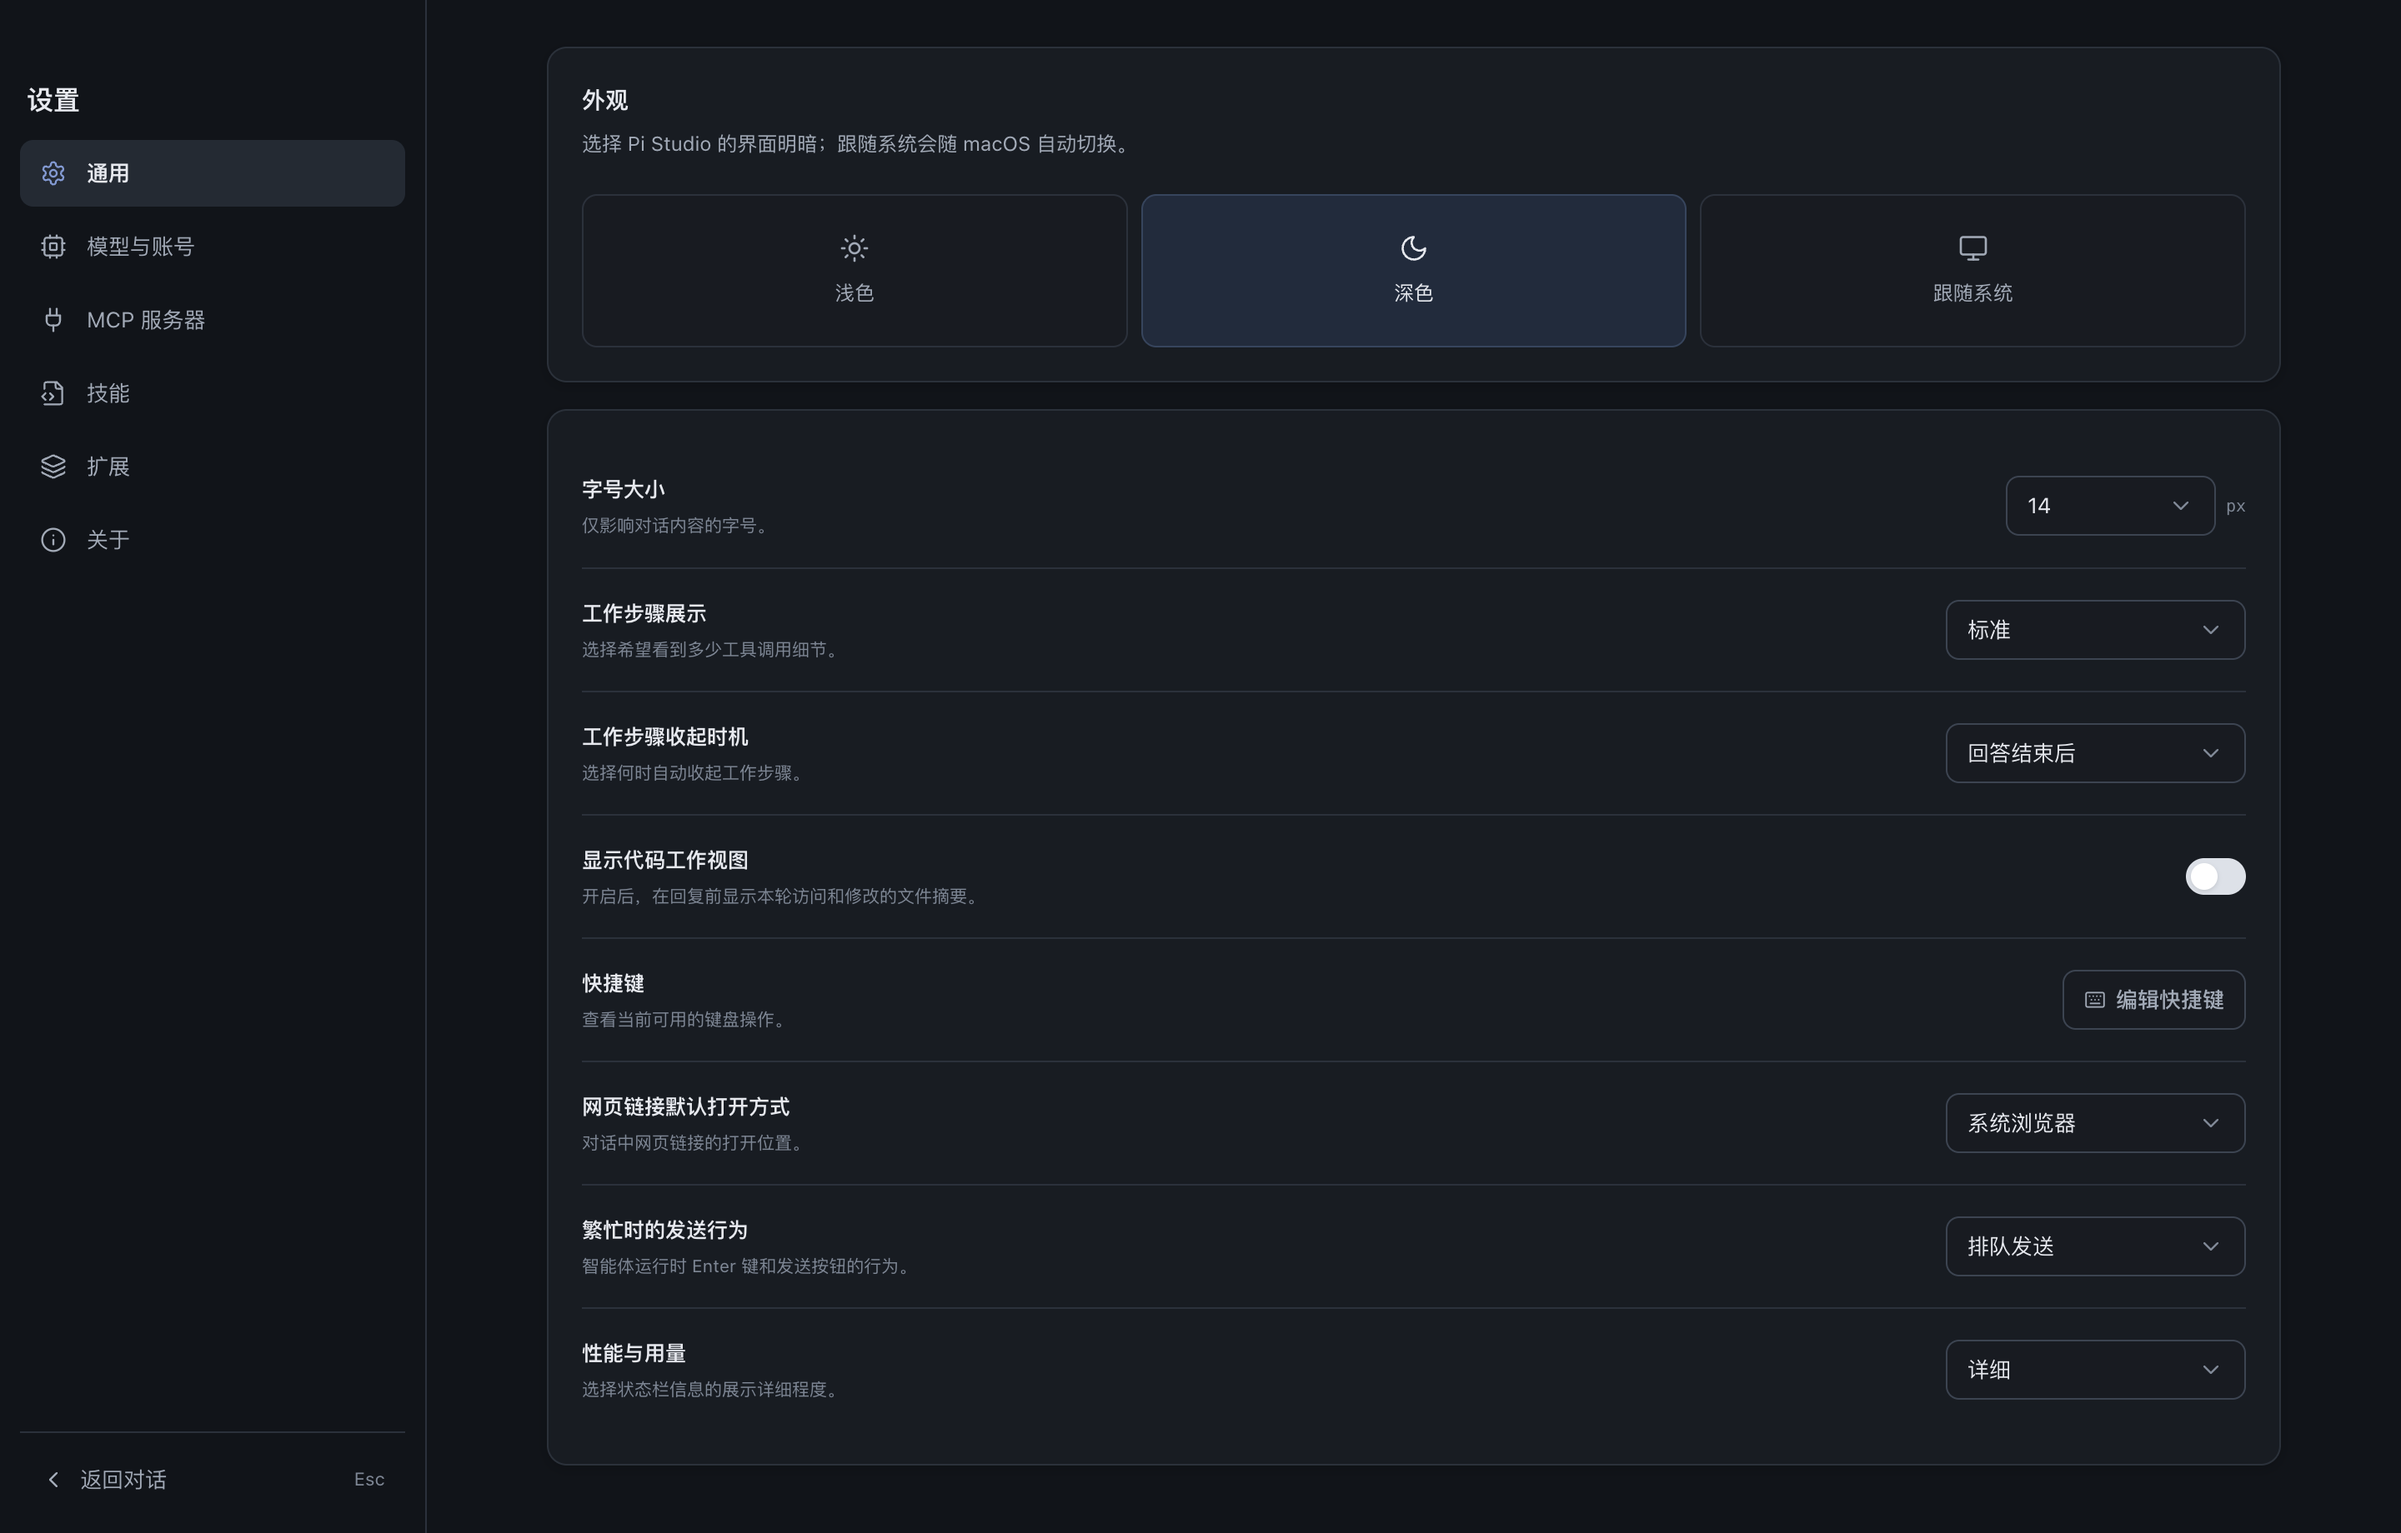
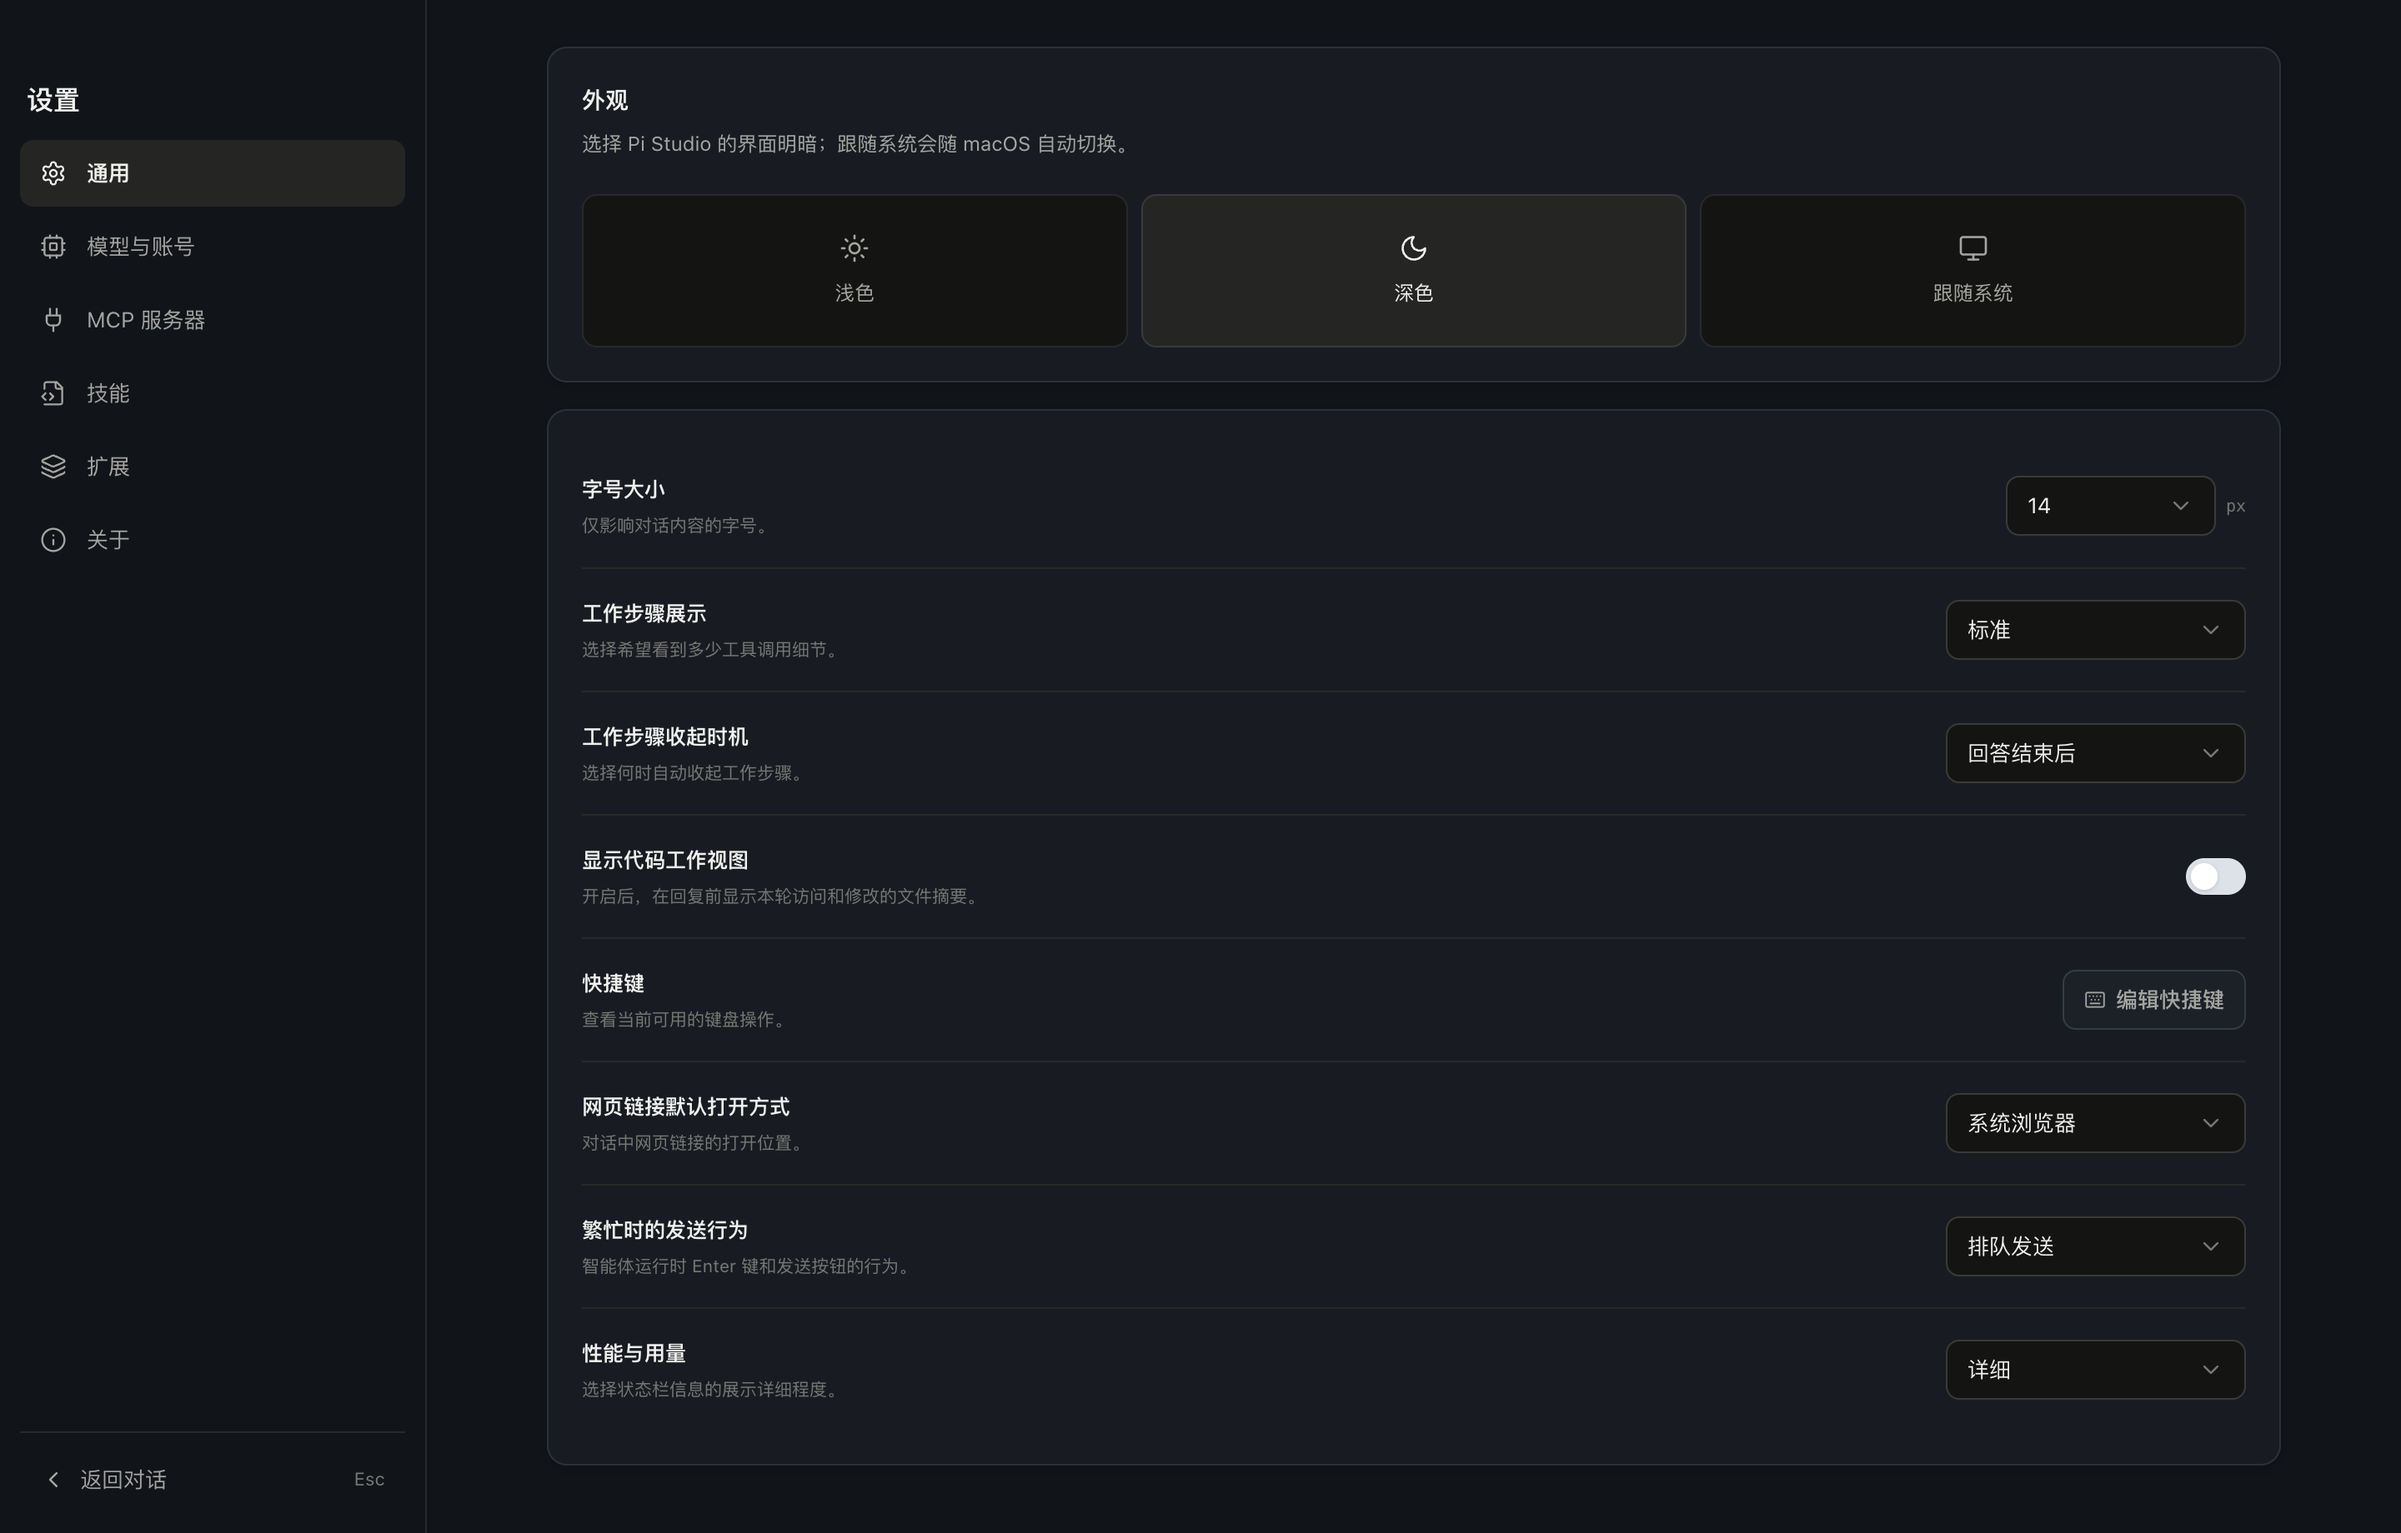
style(theme): 将应用配色切换为经典单色

Changed region(s): [[0.4688, 0.1239, 0.7188, 0.2478]]

diff --git a/web/src/app.css b/web/src/app.css
@@ -1408,3 +1408,116 @@ body *::-webkit-scrollbar-corner { background: transparent; }
 .status-panel-list dt { color: var(--faint); }
 .status-panel-list dd { margin: 0; color: var(--muted); white-space: pre-wrap; overflow-wrap: anywhere; }
 .status-panel-empty { margin: 0; color: var(--faint); font-size: 11px; }
+
+/* Classic monochrome system: ink, paper, and quiet gray only. */
+:root[data-theme="dark"] {
+  --bg: #0c0c0b;
+  --surface: #141413;
+  --surface-soft: #1b1b19;
+  --surface-hover: #242422;
+  --surface-active: #2c2c29;
+  --sidebar-bg: #10100f;
+  --text: #f0f0ed;
+  --muted: #a5a5a0;
+  --faint: #777772;
+  --border: #292927;
+  --border-strong: #3a3a36;
+  --accent: #f0f0ed;
+  --accent-hover: #ffffff;
+  --accent-soft: #252523;
+  --accent-border: #3d3d39;
+  --on-accent: #111110;
+  --success: #a8b3aa;
+  --success-soft: #1b241e;
+  --error: #c99189;
+  --error-soft: #2a1c1a;
+  --shadow-card: 0 2px 8px rgb(0 0 0 / 20%);
+  --shadow-popover: 0 14px 44px rgb(0 0 0 / 40%), 0 2px 8px rgb(0 0 0 / 25%);
+  --focus-ring: 0 0 0 3px rgb(255 255 255 / 10%);
+}
+.send-button, .settings-save { color: var(--on-accent); }
+.dialog-footer .settings-save { background: var(--text); color: var(--bg); border-color: var(--text); }
+.dialog-footer .settings-save:hover:not(:disabled) { background: var(--text); color: var(--bg); }
+.user-bubble { border-color: var(--border); background: linear-gradient(135deg, #f2f2ef, #ecece9); box-shadow: none; }
+.nav-row.is-active, .settings-nav-row.is-active { background: var(--accent-soft); color: var(--text); }
+.new-chat:hover { border-color: var(--border-strong); background: var(--surface-soft); color: var(--text); }
+.model-card, .model-card:hover, .model-card.is-active { background: var(--surface); }
+.model-card.is-active { border-color: var(--border-strong); box-shadow: inset 3px 0 0 var(--text), 0 4px 16px rgb(20 20 18 / 5%); }
+.theme-choice.is-active { border-color: var(--border-strong); background: var(--accent-soft); color: var(--text); }
+.composer:focus-within { border-color: var(--border-strong); box-shadow: var(--focus-ring), 0 4px 20px rgb(20 20 18 / 4%); }
+.chat-loading-line { background: linear-gradient(90deg, transparent, var(--text), transparent); }
+.panel-tab.is-active { background: var(--accent-soft); }
+.panel-tab-icon.is-file, .panel-tab-icon.is-files, .panel-tab-icon.is-start { color: var(--muted); }
+.panel-tab-icon.is-file, .panel-tab-icon.is-files { background: transparent; }
+.assistant-orb { background: linear-gradient(145deg, #2a2a27, #111110); color: #f6f6f3; box-shadow: 0 3px 10px rgb(0 0 0 / 16%), 0 0 0 1px rgb(255 255 255 / 6%) inset; }
+.assistant-turn.is-live .assistant-orb { background: linear-gradient(145deg, #1b1b19, #060606); box-shadow: 0 0 0 5px rgb(0 0 0 / 5%), 0 3px 12px rgb(0 0 0 / 20%); }
+.assistant-turn.is-live .assistant-turn-status { color: var(--text); }
+.assistant-turn.is-live .assistant-turn-status::before { background: var(--text); box-shadow: 0 0 0 3px rgb(0 0 0 / 7%); }
+.assistant-turn.is-live .assistant-orb::after { border-color: rgb(0 0 0 / 14%); }
+:root[data-theme="dark"] .assistant-orb { background: linear-gradient(145deg, #f2f2ee, #c9c9c3); color: #111110; }
+:root[data-theme="dark"] .assistant-turn.is-live .assistant-orb { background: linear-gradient(145deg, #ffffff, #deded8); }
+:root[data-theme="dark"] .assistant-turn.is-live .assistant-turn-status::before { box-shadow: 0 0 0 3px rgb(255 255 255 / 10%); }
+.markdown blockquote { border-left-color: var(--border-strong); background: linear-gradient(90deg, var(--surface-soft), transparent); }
+.markdown a { color: var(--text); text-decoration-color: var(--faint); }
+.markdown .hljs-keyword, .markdown .hljs-selector-tag, .markdown .hljs-built_in,
+.markdown .hljs-string, .markdown .hljs-attr, .markdown .hljs-template-variable,
+.markdown .hljs-number, .markdown .hljs-literal, .markdown .hljs-title,
+.markdown .hljs-name, .markdown .hljs-function, .markdown .hljs-variable,
+.markdown .hljs-params { color: var(--text); }
+.markdown .hljs-comment, .markdown .hljs-quote { color: var(--faint); }
+.thinking-symbol, .activity-node.is-thinking, .thinking-block summary { color: var(--muted); background: var(--surface-soft); border-color: var(--border); }
+.thinking-symbol, .activity-node.is-thinking { background: var(--surface-soft); }
+.activity-node.is-thinking { box-shadow: 0 0 0 1px var(--border); }
+.activity-thinking-label { color: var(--muted); }
+.activity-thinking-body { border-left-color: var(--border-strong); background: var(--surface-soft); }
+.activity-thinking-body .markdown, .thinking-content .markdown { color: var(--muted); }
+.activity-tool { border-color: var(--border); background: var(--surface); }
+.activity-tool:hover { border-color: var(--border-strong); background: var(--surface-soft); }
+.activity-node.tone-shell, .activity-node.tone-read, .activity-node.tone-search, .activity-node.tone-edit, .activity-node.tone-tool { color: var(--muted); background: var(--surface-soft); box-shadow: 0 0 0 1px var(--border); }
+.activity-tool-status, .activity-tool.is-done .activity-tool-status { color: var(--muted); }
+.activity-tool.is-running .activity-tool-status { color: var(--text); background: var(--accent-soft); }
+.activity-tool.is-error .activity-tool-status { color: var(--error); background: var(--error-soft); }
+.activity-tool-code { background: var(--surface-soft); }
+.activity-pulse i.is-thinking, .activity-pulse i.tone-shell, .activity-pulse i.tone-read, .activity-pulse i.tone-search, .activity-pulse i.tone-edit { background: #b7b7b1; }
+.activity-pulse i { background: #d4d4ce; }
+.activity-summary, .activity-title { color: var(--muted); }
+.attachment-icon, .attachment-icon.is-image, .attachment-icon.is-code, .attachment-icon.is-archive, .attachment-icon.is-sheet, .attachment-icon.is-doc, .attachment-icon.is-generic { color: var(--muted); background: var(--surface-soft); }
+.attachment-kind, .attachment-kind.is-code, .attachment-kind.is-archive, .attachment-kind.is-sheet, .attachment-kind.is-doc { color: var(--faint); background: var(--surface-soft); }
+.attachment-card, .composer-attachment { background: var(--surface); border-color: var(--border); }
+.composer-attachment > button { background: var(--surface); border-color: var(--border); color: var(--muted); }
+.assistant-error, .error-card { border-color: var(--border); background: var(--surface-soft); box-shadow: none; }
+.assistant-error::before, .error-card::before { background: var(--error); }
+.assistant-error-mark { color: var(--error); background: var(--error-soft); box-shadow: none; }
+.assistant-error-kicker, .assistant-error-code { color: var(--error); border-color: var(--border); }
+.assistant-error-message { border-color: var(--border); background: var(--surface); color: var(--muted); }
+.assistant-error-foot { color: var(--faint); }
+.outline-line { background: #d1d1cb; }
+.outline-tick:hover .outline-line { background: #9b9b95; }
+.outline-tick.is-active .outline-line { background: var(--text); }
+.outline-preview { border-color: var(--border); background: var(--surface); }
+.outline-preview::after { border-color: var(--border); background: var(--surface); }
+.outline-preview-role::before { background: var(--faint); }
+.extension-footer-line > svg:first-child { color: var(--muted); }
+.outline-track::before { display: none; }
+::selection { background: #d9d9d3; }
+:root[data-theme="dark"] ::selection { background: #3b3b37; }
+:root[data-theme="dark"] .user-bubble { background: linear-gradient(135deg, #222220, #1b1b19); border-color: var(--border); }
+:root[data-theme="dark"] .nav-row.is-active, :root[data-theme="dark"] .settings-nav-row.is-active { background: var(--accent-soft); color: var(--text); }
+:root[data-theme="dark"] .model-card.is-active { background: var(--surface-soft); box-shadow: inset 3px 0 0 var(--text); }
+:root[data-theme="dark"] .assistant-error, :root[data-theme="dark"] .error-card { background: #181817; border-color: var(--border); }
+:root[data-theme="dark"] .assistant-error-message { background: var(--surface); border-color: var(--border); color: var(--muted); }
+
+/* Keep the monochrome contract across reply typography and dark surfaces. */
+.assistant-response .markdown h1, .assistant-response .markdown h2 { color: var(--text); }
+.assistant-response .markdown pre { border-color: var(--border); background: var(--surface-soft); }
+.assistant-response .markdown code { background: var(--surface-soft); }
+.state-dot, .status i { background: var(--faint); }
+.state-dot.is-busy { background: var(--text); }
+.send-button { color: var(--on-accent); }
+:root[data-theme="dark"] .composer { background: var(--surface); border-color: var(--border-strong); }
+:root[data-theme="dark"] .user-bubble { background: linear-gradient(135deg, #1f1f1d, #1a1a18); border-color: var(--border); }
+:root[data-theme="dark"] .markdown pre, :root[data-theme="dark"] .activity-tool-code { background: #10100f; border-color: var(--border); }
+:root[data-theme="dark"] .markdown code { background: var(--surface-soft); }
+:root[data-theme="dark"] .thinking-block summary, :root[data-theme="dark"] .activity-tool { background: var(--surface); border-color: var(--border); }
+:root[data-theme="dark"] .activity-drawer > summary { background: var(--surface-soft); border-color: var(--border); }
+:root[data-theme="dark"] .file-code, :root[data-theme="dark"] .line-number { background: var(--surface); }

diff --git a/web/src/styles/tokens.css b/web/src/styles/tokens.css
@@ -1,24 +1,25 @@
 /* Shared dimensions and surfaces for the whole desktop workspace. */
 :root {
-  --bg: #f7f8fa;
+  --bg: #f4f4f2;
   --surface: #ffffff;
-  --surface-soft: #f5f6f8;
-  --surface-hover: #edf0f4;
-  --surface-active: #e8edf5;
-  --sidebar-bg: #f2f4f7;
-  --text: #242933;
-  --muted: #596575;
-  --faint: #657184;
-  --border: #e6e9ef;
-  --border-strong: #d4dae4;
-  --accent: #4d6eb8;
-  --accent-hover: #3e5c9e;
-  --accent-soft: #eef2f8;
-  --accent-border: #d9e2f0;
-  --success: #27845a;
-  --success-soft: #eef8f2;
-  --error: #bd4141;
-  --error-soft: #fff2f1;
+  --surface-soft: #f6f6f4;
+  --surface-hover: #eeeeeb;
+  --surface-active: #e6e6e2;
+  --sidebar-bg: #f0f0ee;
+  --text: #191918;
+  --muted: #5f5f5b;
+  --faint: #898984;
+  --border: #e4e4e0;
+  --border-strong: #d0d0cb;
+  --accent: #1d1d1b;
+  --accent-hover: #000000;
+  --accent-soft: #ededeb;
+  --accent-border: #d8d8d3;
+  --on-accent: #ffffff;
+  --success: #4f5b53;
+  --success-soft: #eef2ef;
+  --error: #8a4b45;
+  --error-soft: #f8f0ef;
   --space-1: 4px;
   --space-2: 8px;
   --space-3: 12px;
@@ -46,9 +47,9 @@
   --settings-content: 1040px;
   --header-height: 48px;
   --toolbar-height: 36px;
-  --shadow-card: 0 2px 8px rgb(28 39 58 / 3%);
-  --shadow-popover: 0 12px 40px rgb(28 39 58 / 12%), 0 2px 8px rgb(28 39 58 / 4%);
-  --focus-ring: 0 0 0 3px rgb(77 110 184 / 12%);
+  --shadow-card: 0 2px 8px rgb(20 20 18 / 3%);
+  --shadow-popover: 0 14px 42px rgb(20 20 18 / 12%), 0 2px 8px rgb(20 20 18 / 4%);
+  --focus-ring: 0 0 0 3px rgb(0 0 0 / 7%);
   --transition: 160ms ease;
   --font: -apple-system, BlinkMacSystemFont, "SF Pro Text", "Segoe UI", "PingFang SC", "Hiragino Sans GB", "Microsoft YaHei", sans-serif;
   --display-font: "Songti SC", "STSong", "Noto Serif SC", "Source Han Serif SC", "Times New Roman", serif;
